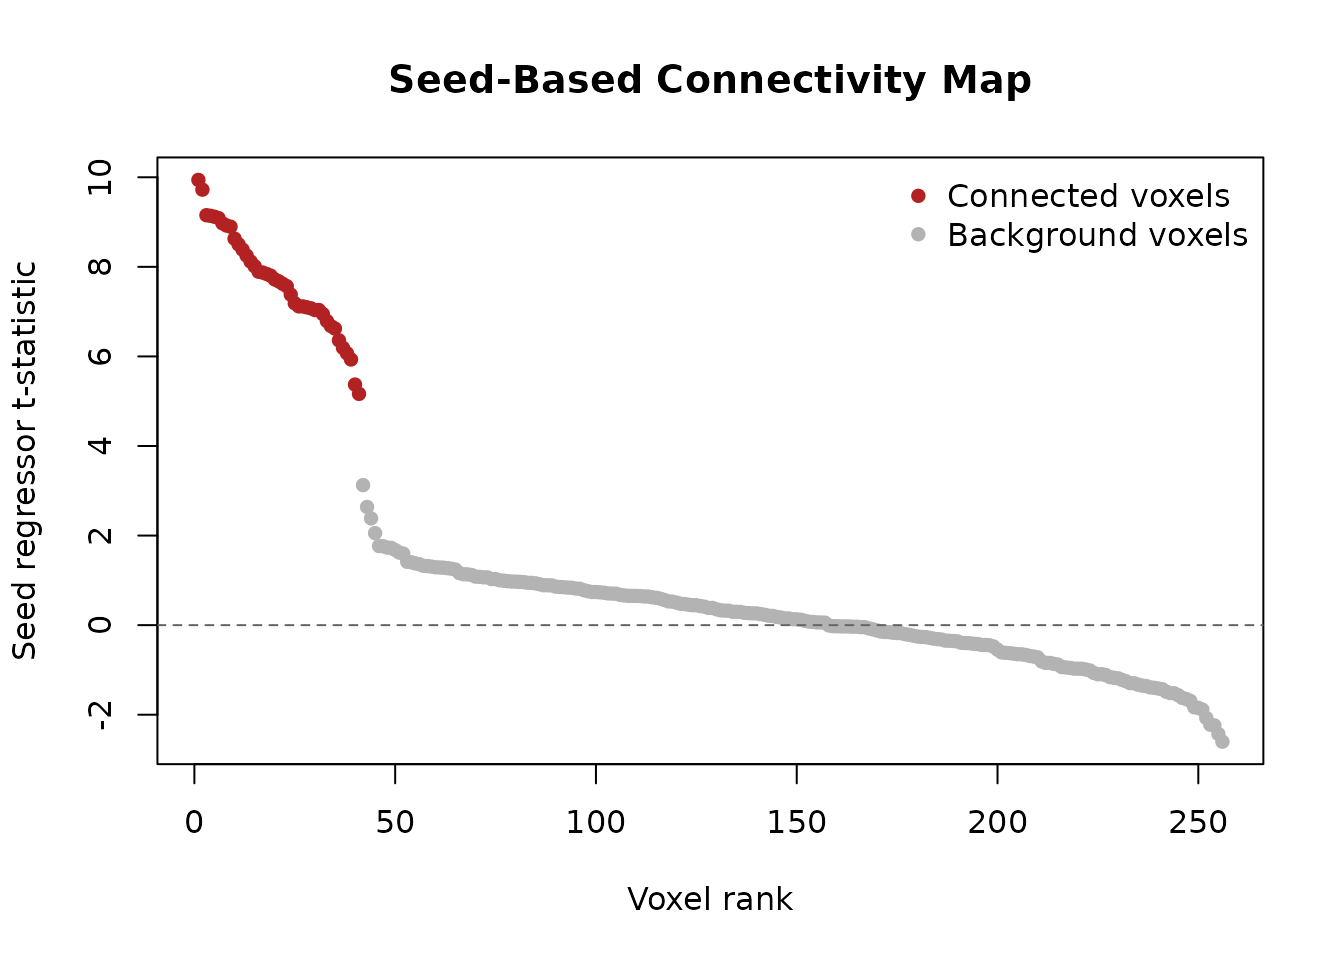
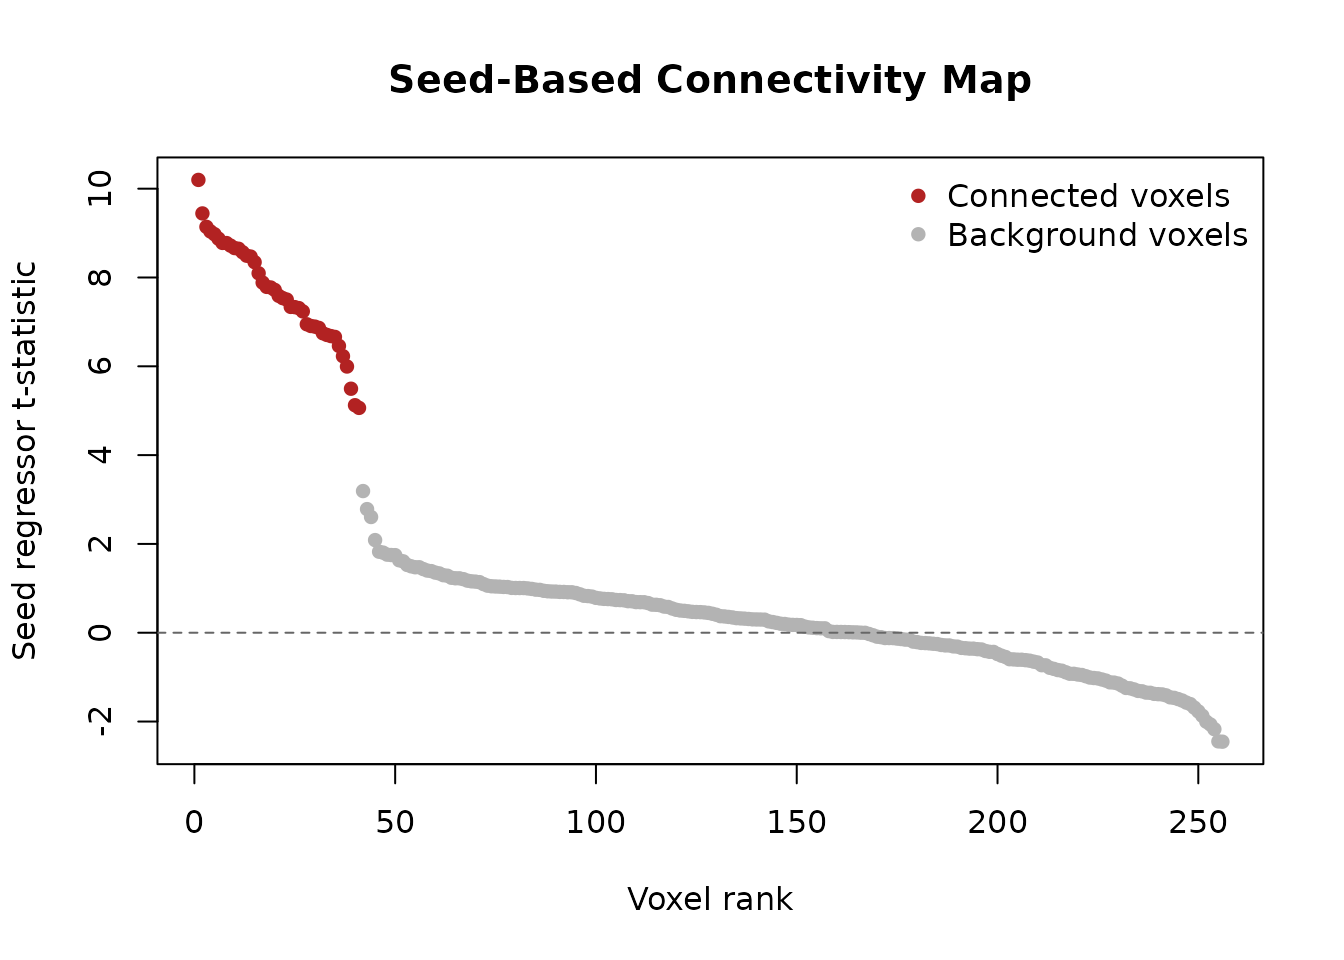
Deploying to gh-pages from @ bbuchsbaum/fmrireg@c82918afe4c0baa3d111e2285340e536fbf2220a 🚀

diff --git a/articles/a_05_contrasts.html b/articles/a_05_contrasts.html
@@ -981,9 +981,9 @@ contrast:</p>
 <span><span class="co">#&gt;   .. ..$ id       : NULL</span></span>
 <span><span class="co">#&gt;   .. ..$ vars     :List of 2</span></span>
 <span><span class="co">#&gt;   .. .. ..$ : language ~category</span></span>
-<span><span class="co">#&gt;   .. .. .. ..- attr(*, ".Environment")=&lt;environment: 0x557da51d8460&gt; </span></span>
+<span><span class="co">#&gt;   .. .. .. ..- attr(*, ".Environment")=&lt;environment: 0x55e103f1b420&gt; </span></span>
 <span><span class="co">#&gt;   .. .. ..$ : language ~attention</span></span>
-<span><span class="co">#&gt;   .. .. .. ..- attr(*, ".Environment")=&lt;environment: 0x557da51d8460&gt; </span></span>
+<span><span class="co">#&gt;   .. .. .. ..- attr(*, ".Environment")=&lt;environment: 0x55e103f1b420&gt; </span></span>
 <span><span class="co">#&gt;   .. .. ..- attr(*, "class")= chr [1:2] "quosures" "list"</span></span>
 <span><span class="co">#&gt;   .. ..$ varnames : Named chr [1:2] "category" "attention"</span></span>
 <span><span class="co">#&gt;   .. .. ..- attr(*, "names")= chr [1:2] "" ""</span></span>

diff --git a/articles/functional_connectivity.html b/articles/functional_connectivity.html
@@ -251,7 +251,7 @@ accounting for drift.</p>
 <span><span class="co"># Check the distribution of our connectivity map</span></span>
 <span><span class="fu"><a href="https://rdrr.io/r/base/summary.html" class="external-link">summary</a></span><span class="op">(</span><span class="va">t_seed</span><span class="op">)</span></span>
 <span><span class="co">#&gt;    Min. 1st Qu.  Median    Mean 3rd Qu.    Max. </span></span>
-<span><span class="co">#&gt; -2.6023 -0.4003  0.3842  1.2858  1.2451  9.9411</span></span></code></pre></div>
+<span><span class="co">#&gt; -2.4538 -0.3511  0.4367  1.3222  1.2293 10.1976</span></span></code></pre></div>
 </div>
 <div class="section level2">
 <h2 id="validating-the-results">Validating the Results<a class="anchor" aria-label="anchor" href="#validating-the-results"></a>
@@ -289,7 +289,7 @@ background voxels and should dominate the top-ranked discoveries.</p>
 <span>  top_rank_enrichment <span class="op">=</span> <span class="va">top_rank_enrichment</span></span>
 <span><span class="op">)</span></span>
 <span><span class="co">#&gt;    mean_abs_t_network mean_abs_t_background      sig_rate_network </span></span>
-<span><span class="co">#&gt;            7.65896313            0.80911959            1.00000000 </span></span>
+<span><span class="co">#&gt;            7.63423898            0.81296704            1.00000000 </span></span>
 <span><span class="co">#&gt;   sig_rate_background   top_rank_enrichment </span></span>
 <span><span class="co">#&gt;            0.04186047            1.00000000</span></span></code></pre></div>
 <p>The network voxels dominate the top-ranked statistics and are

diff --git a/reference/get_formula.html b/reference/get_formula.html
@@ -95,7 +95,7 @@
     <div class="sourceCode"><pre class="sourceCode r"><code><span class="r-in"><span><span class="va">fm</span> <span class="op">&lt;-</span> <span class="fu">fmrireg</span><span class="fu">:::</span><span class="fu">.demo_fmri_model</span><span class="op">(</span><span class="op">)</span></span></span>
 <span class="r-in"><span><span class="fu">get_formula</span><span class="op">(</span><span class="va">fm</span><span class="op">)</span></span></span>
 <span class="r-out co"><span class="r-pr">#&gt;</span> .y ~ condition + drift + block - 1</span>
-<span class="r-out co"><span class="r-pr">#&gt;</span> &lt;environment: 0x55e077661ba8&gt;</span>
+<span class="r-out co"><span class="r-pr">#&gt;</span> &lt;environment: 0x55d3d0d77960&gt;</span>
 </code></pre></div>
     </div>
   </main><aside class="col-md-3"><nav id="toc" aria-label="Table of contents"><h2>On this page</h2>

diff --git a/reference/simulate_fmri_matrix.html b/reference/simulate_fmri_matrix.html
@@ -151,7 +151,7 @@ The <code>event_table</code> uses the first column's amplitude/duration draws.</
 
 <dt id="arg-isi-dist">isi_dist<a class="anchor" aria-label="anchor" href="#arg-isi-dist"></a></dt>
 <dd><p>One of <code>"even"</code>, <code>"uniform"</code>, or <code>"exponential"</code>.
-Default is <code>"even"</code> so events are evenly spaced from 0..total_time.</p></dd>
+Default is <code>"even"</code> so events are evenly spaced within <code>total_time - buffer</code>.</p></dd>
 
 
 <dt id="arg-isi-min-isi-max">isi_min, isi_max<a class="anchor" aria-label="anchor" href="#arg-isi-min-isi-max"></a></dt>

diff --git a/articles/a_05_contrasts.md b/articles/a_05_contrasts.md
@@ -614,9 +614,9 @@ str(wts_interaction)
 #>   .. ..$ id       : NULL
 #>   .. ..$ vars     :List of 2
 #>   .. .. ..$ : language ~category
-#>   .. .. .. ..- attr(*, ".Environment")=<environment: 0x557da51d8460> 
+#>   .. .. .. ..- attr(*, ".Environment")=<environment: 0x55e103f1b420> 
 #>   .. .. ..$ : language ~attention
-#>   .. .. .. ..- attr(*, ".Environment")=<environment: 0x557da51d8460> 
+#>   .. .. .. ..- attr(*, ".Environment")=<environment: 0x55e103f1b420> 
 #>   .. .. ..- attr(*, "class")= chr [1:2] "quosures" "list"
 #>   .. ..$ varnames : Named chr [1:2] "category" "attention"
 #>   .. .. ..- attr(*, "names")= chr [1:2] "" ""

diff --git a/articles/functional_connectivity.md b/articles/functional_connectivity.md
@@ -173,7 +173,7 @@ p_seed <- as.numeric(all_pvals[, seed_col_name])
 # Check the distribution of our connectivity map
 summary(t_seed)
 #>    Min. 1st Qu.  Median    Mean 3rd Qu.    Max. 
-#> -2.6023 -0.4003  0.3842  1.2858  1.2451  9.9411
+#> -2.4538 -0.3511  0.4367  1.3222  1.2293 10.1976
 ```
 
 ## Validating the Results
@@ -213,7 +213,7 @@ c(
   top_rank_enrichment = top_rank_enrichment
 )
 #>    mean_abs_t_network mean_abs_t_background      sig_rate_network 
-#>            7.65896313            0.80911959            1.00000000 
+#>            7.63423898            0.81296704            1.00000000 
 #>   sig_rate_background   top_rank_enrichment 
 #>            0.04186047            1.00000000
 ```

diff --git a/reference/get_formula.md b/reference/get_formula.md
@@ -34,5 +34,5 @@ A formula.
 fm <- fmrireg:::.demo_fmri_model()
 get_formula(fm)
 #> .y ~ condition + drift + block - 1
-#> <environment: 0x55e077661ba8>
+#> <environment: 0x55d3d0d77960>
 ```

diff --git a/reference/simulate_fmri_matrix.md b/reference/simulate_fmri_matrix.md
@@ -77,7 +77,7 @@ simulate_fmri_matrix(
 - isi_dist:
 
   One of `"even"`, `"uniform"`, or `"exponential"`. Default is `"even"`
-  so events are evenly spaced from 0..total_time.
+  so events are evenly spaced within `total_time - buffer`.
 
 - isi_min, isi_max:
 